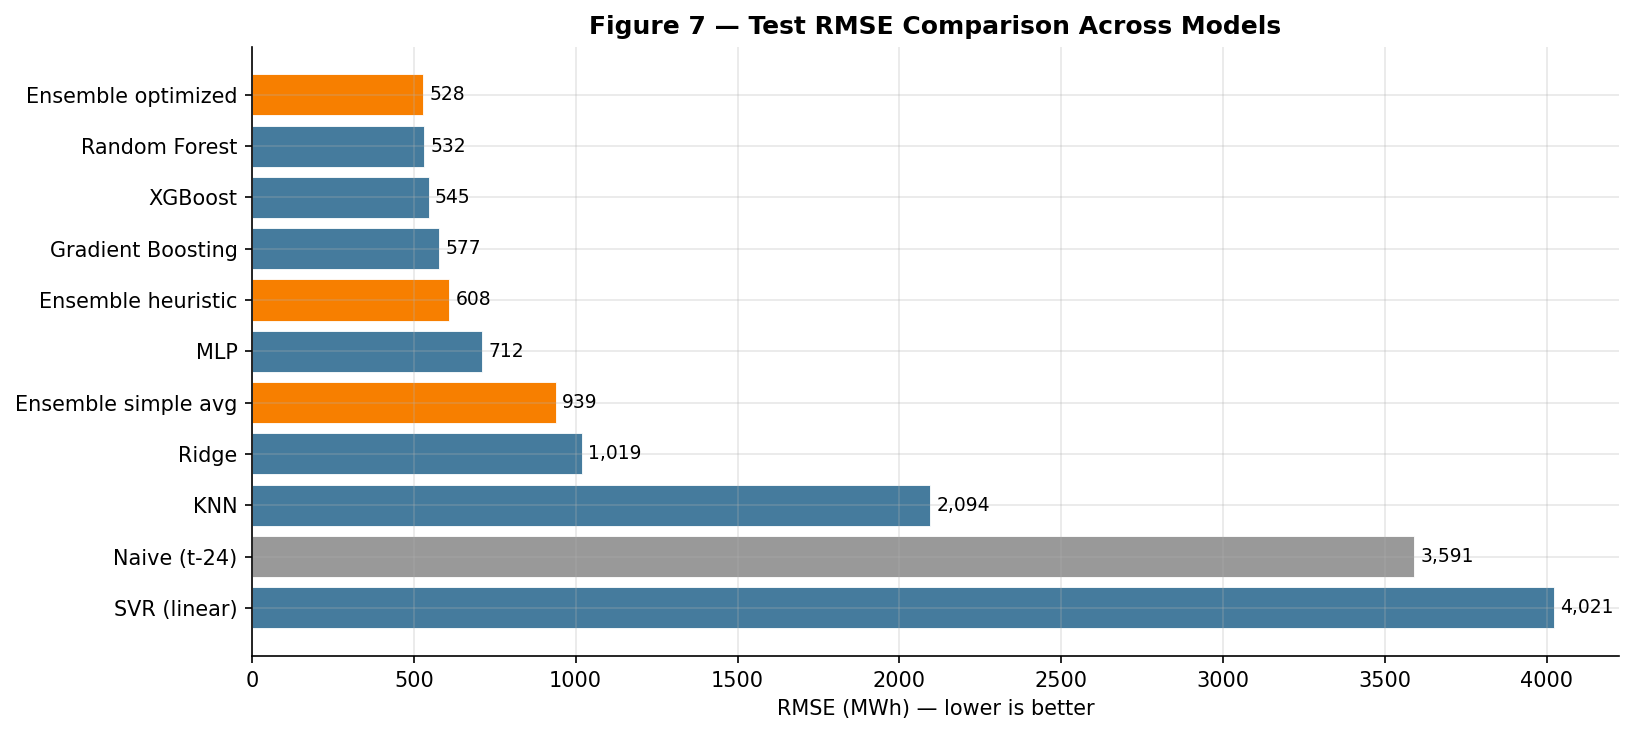
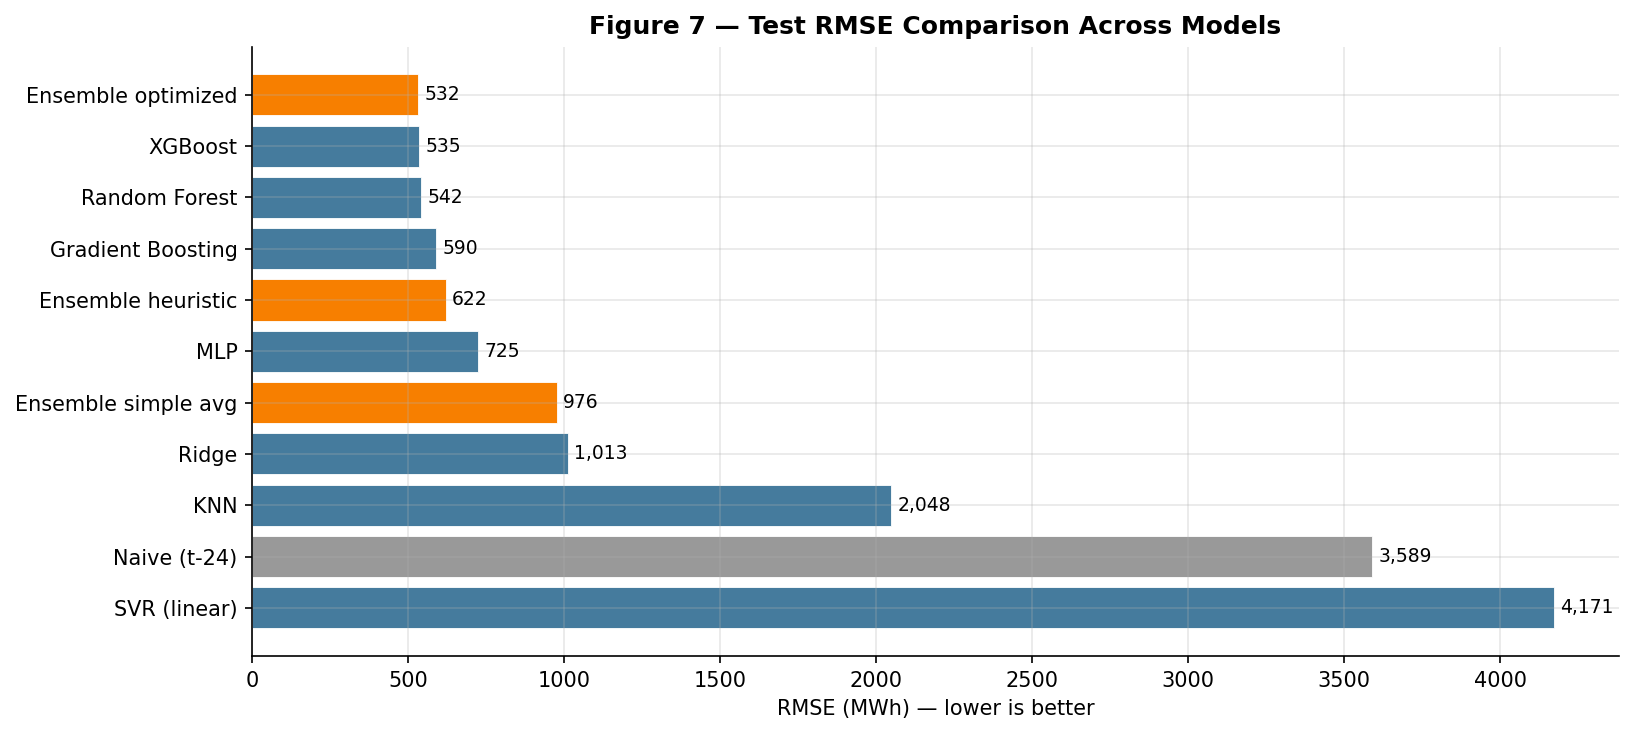
Publish fully reproduced benchmark results

diff --git a/README.md b/README.md
@@ -47,19 +47,19 @@ The data are divided chronologically to avoid using future observations to predi
 
 | Model | Test RMSE (MWh) | Test MAE (MWh) | Test MAPE | Test R² |
 |---|---:|---:|---:|---:|
-| Optimised ensemble | **528.18** | 351.34 | 1.22% | **0.9868** |
-| Random forest | 531.58 | **348.36** | **1.20%** | 0.9867 |
-| XGBoost | 545.38 | 372.42 | 1.29% | 0.9860 |
-| Gradient boosting | 577.27 | 402.52 | 1.39% | 0.9843 |
-| Heuristic ensemble | 608.13 | 419.73 | 1.45% | 0.9825 |
-| MLP | 711.96 | 512.90 | 1.81% | 0.9761 |
-| Simple-average ensemble | 938.63 | 696.89 | 2.31% | 0.9584 |
-| Ridge regression | 1,018.70 | 761.93 | 2.64% | 0.9510 |
-| KNN | 2,093.54 | 1,504.66 | 5.27% | 0.7930 |
-| Seasonal naive (t−24) | 3,590.51 | 2,520.34 | 8.75% | 0.3912 |
-| Linear SVR | 4,020.96 | 3,412.31 | 10.99% | 0.2365 |
+| Optimised ensemble | **531.84** | **319.71** | **1.12%** | **0.9866** |
+| XGBoost | 534.88 | 329.86 | 1.17% | 0.9865 |
+| Random forest | 542.09 | 327.97 | 1.15% | 0.9861 |
+| Gradient boosting | 590.29 | 383.38 | 1.35% | 0.9835 |
+| Heuristic ensemble | 621.51 | 406.81 | 1.41% | 0.9818 |
+| MLP | 724.80 | 493.41 | 1.75% | 0.9752 |
+| Simple-average ensemble | 975.85 | 725.40 | 2.40% | 0.9550 |
+| Ridge regression | 1,013.10 | 749.36 | 2.56% | 0.9515 |
+| KNN | 2,047.98 | 1,457.51 | 5.07% | 0.8020 |
+| Seasonal naive (t−24) | 3,588.55 | 2,519.00 | 8.74% | 0.3920 |
+| Linear SVR | 4,170.71 | 3,553.37 | 11.48% | 0.1787 |
 
-The ensemble produced the lowest test RMSE, although its improvement over random forest was modest. This should therefore be interpreted as an incremental forecasting gain rather than evidence that ensembling always dominates a strong individual learner. Random forest achieved slightly better MAE and MAPE, illustrating that the preferred model depends on the operational loss function.
+The optimised ensemble achieved the best result across all four reported test metrics. Its RMSE improvement over XGBoost—the strongest individual model by RMSE—was modest, so the result should be interpreted as an incremental forecasting gain rather than evidence that ensembling always dominates a strong individual learner.
 
 ![Test RMSE comparison](reports/figures/fig7_rmse_comparison.png)
 
@@ -95,13 +95,15 @@ jupyter lab
 
 Open `notebooks/electricity_demand_forecasting.ipynb` and run the cells from top to bottom. The notebook expects both CSV files in `data/raw/`.
 
+The complete notebook was re-executed from a clean copy on 10 November 2026 using Python 3.13 and the pinned dependencies in `requirements.txt`. All 45 code cells completed without errors, and the resulting metrics and figures were used to update this repository.
+
 ## Limitations
 
 - The analysis covers a single country and historical period.
 - Weather observations from five cities may not fully represent national conditions.
 - Hyperparameter selection is constrained by the computational scope of a course project.
 - Performance should be reassessed on more recent data and under rolling-origin validation.
-- The ensemble's gain over random forest is small and may not persist in a different period.
+- The ensemble's gain over XGBoost is small and may not persist in a different period.
 
 ## Team and attribution
 
